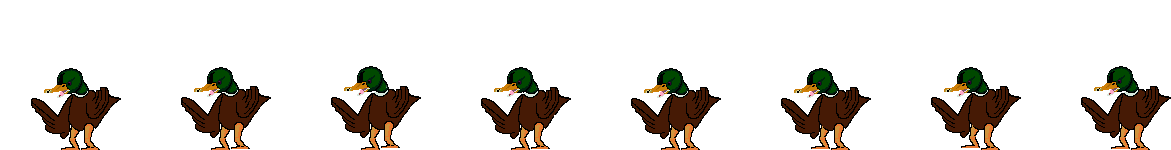
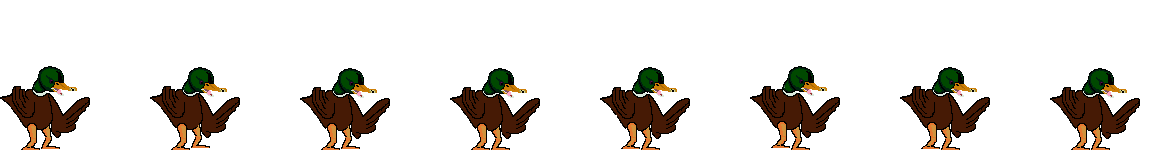
fuck

Changed region(s): [[0.0, 0.4267, 1.0, 1.0]]

diff --git a/src/main.js b/src/main.js
@@ -7,6 +7,7 @@ console.log(window.innerWidth);
  
 const manifest = [
 	{src:"src/json/SpriteSheets/bat.json", id:"bat", type:"spritesheet"},
+	{src:"src/json/SpriteSheets/braid.json", id:"braid", type:"spritesheet"},
 	{src:"src/json/SpriteSheets/duck.json", id:"duck", type:"spritesheet"},
 	{src:"src/img/Characters/Enemies/batright.png", id:"duck2"}
 ]
@@ -16,10 +17,11 @@ document.getElementById("canvas").focus();
 const stage = new Stage("canvas");
 const loader = new LoadQueue(false);
 loader.on('complete', (event)=>{
-	let duck = new Character(100,100,0,0,loader.getResult("bat"));
+	let duck = new Character(150,150,0,0,loader.getResult("duck"));
+	// let braid = new Character(100,100,0,0, loader.getResult("braid"));
 	let duck2 = new Bitmap(loader.getResult("duck2"));
 
-	duck2.x = 10; duck2.y = 10;
+	duck2.x = 10; duck2.y = 30;
 
 	// duck.speed = 20
 

diff --git a/styles.css b/styles.css
@@ -1,3 +1,4 @@
 html, body{ margin:0; padding: 0; overflow: hidden}
 /*body {width: 100%; height: 100%; margin:0; padding: 0;}
 */#canvas {width: 1024px; height: 576px; margin:0; padding: 0; position: absolute}
+div {width:100px; height: 80px; border 1px solid black; position: absolute;}

diff --git a/index.html b/index.html
@@ -6,6 +6,7 @@
 </head>
 <body>
 <canvas tabindex="1" id="canvas"></canvas>
+<div></div>
 <script src="http://localhost:8080/webpack-dev-server.js"></script>
 <script type="text/javascript" src="dist/duckquest.min.js"></script>
 </body>
